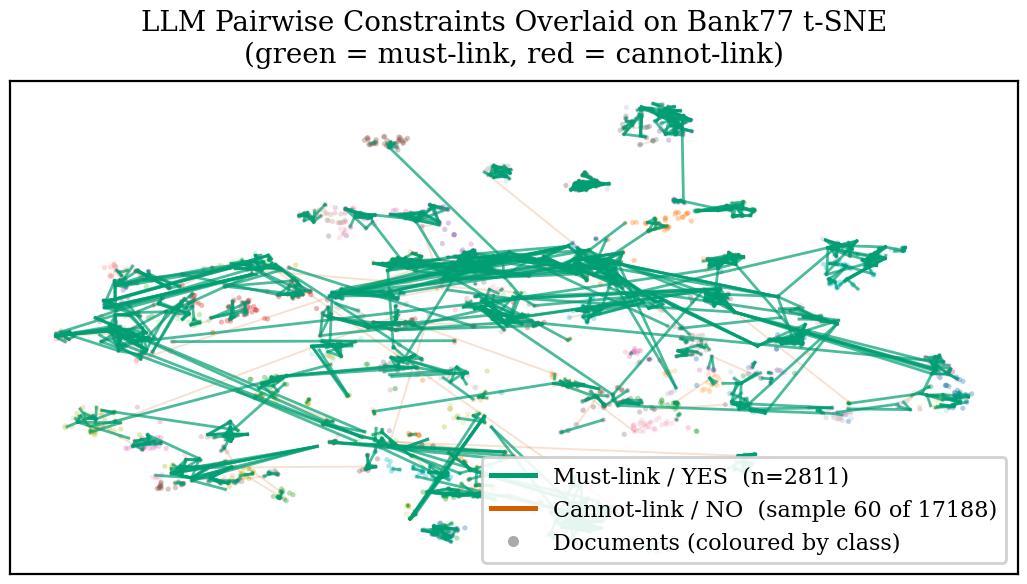
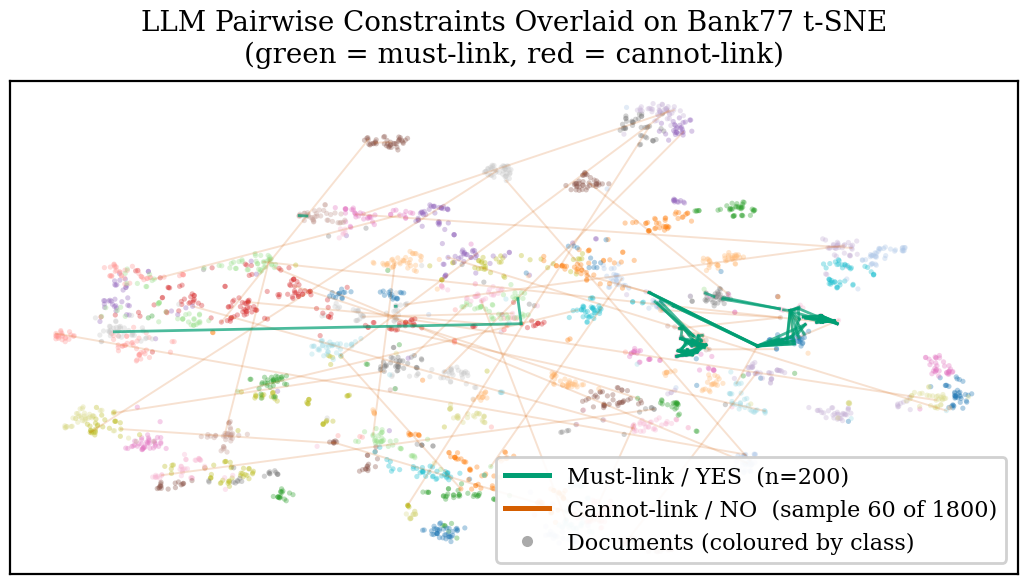
minor changes

diff --git a/report/report.tex b/report/report.tex
@@ -98,7 +98,7 @@
     mean-pools embeddings across LLM-generated paraphrases to smooth surface
     variance.
     We further analyse the LLM oracle's empirical accuracy as a same-cluster
-    predictor (precision\,0.73, specificity\,0.96 on Bank77 pairwise queries)
+    predictor (precision\,0.72, specificity\,0.96 on Bank77 pairwise queries)
     and visualise the geometric effect of each method on the embedding manifold.
     Across eight methods evaluated on three benchmarks we find that
     per-document LLM methods (Keyphrase, Normalization, Paraphrase) consistently
@@ -117,12 +117,12 @@
 \label{sec:intro}
 % ══════════════════════════════════════════════════════════════════════════════
 
-Text clustering is fundamental to many NLP pipelines---from intent discovery in
+Text clustering is central to many NLP pipelines, from intent discovery in
 dialogue systems to topic organisation in social media analysis.
 Traditional approaches embed documents with a pre-trained encoder and apply
-K-Means, but raw embeddings capture surface similarity and may merge
-semantically distinct intents that share vocabulary, or separate paraphrases
-that share intent.
+K-Means, but raw embeddings capture surface similarity and can merge
+semantically distinct intents that share vocabulary, or split paraphrases
+that share the same intent.
 The problem is especially pronounced in \emph{short-text} domains such as
 conversational intent detection (Bank77, CLINC) and social media posts (Tweet),
 where individual utterances contain only a handful of content words and
@@ -166,7 +166,7 @@ We address both questions through targeted visualisations on Bank77.
 
 Standard K-Means minimises within-cluster sum of squared Euclidean distances.
 Applied to L2-normalised embeddings it is equivalent to maximising average
-cosine similarity within clusters---a natural objective for unit-sphere
+cosine similarity within clusters, a natural objective for unit-sphere
 representations such as those produced by sentence transformers
 \citep{reimers2019sentence}.
 We use \texttt{n\_init=auto} and \texttt{random\_state=0} throughout for
@@ -258,9 +258,11 @@ The cleaned constraints are passed to PCKMeans \citep{basu2004active}.
 Figure~\ref{fig:constraints} visualises a sample of the constraints on Bank77.
 Green must-link edges connect documents the LLM judged equivalent; red
 cannot-link edges span clearly distinct intents.
-The geometric structure is striking: must-links bridge nearby clusters in
-embedding space, while cannot-links cross wide gaps---exactly the
-semi-supervised signal PCKMeans needs.
+Most must-links bridge nearby clusters in embedding space, while cannot-links
+cross wide gaps between distinct intents, providing the semi-supervised
+signal PCKMeans relies on.
+A small number of long-range must-link edges reflect oracle errors
+(precision 0.72; see \S\ref{sec:oracle}).
 
 \begin{figure*}[t]
 \centering
@@ -270,8 +272,8 @@ semi-supervised signal PCKMeans needs.
   \fbox{\parbox{0.88\textwidth}{\centering\small fig5 not yet generated.}}%
 }
 \caption{LLM-generated pairwise constraints on the Bank77 t-SNE.
-  \textbf{Green} = must-link YES pairs ($n{=}198$);
-  \textbf{red} = cannot-link NO pairs (300 of 1\,802 sampled).
+  \textbf{Green} edges are must-link (YES) pairs;
+  \textbf{red} edges are cannot-link (NO) pairs.
   Must-links bridge nearby clusters; cannot-links span inter-cluster voids.}
 \label{fig:constraints}
 \end{figure*}
@@ -300,7 +302,7 @@ $\approx$3\,080 for Bank77) but requires no inter-document comparisons.
 \subsection{\textbf{LLM Semantic Normalization} \textnormal{(Novel)}}
 \label{sec:normalization}
 
-Surface heterogeneity---abbreviations, slang, domain jargon---degrades
+Surface heterogeneity (abbreviations, slang, domain jargon) degrades
 clustering by placing paraphrases far apart in embedding space.
 We prompt the LLM to rewrite each document in a \emph{clean canonical form}
 (removing filler words, standardising terminology) with a domain-specific
@@ -338,7 +340,7 @@ hints from the triplet answers to inform Stage~2.
 A Ward hierarchical dendrogram is constructed from the L2-normalised
 embeddings.
 Up to $n_{\mathrm{pairwise}}{=}400$ pairs are sampled proportionally from
-dendrogram merge events---preferring larger merges that are most informative
+dendrogram merge events, preferring larger merges that are most informative
 for $k$ selection.
 For each candidate $k$ in $[\lfloor k_{\max}/4 \rfloor,\; 3k_{\max}]$:
 \begin{equation}
@@ -445,7 +447,7 @@ baseline, suggesting that tweets are already topically compact enough that
 surface-form smoothing provides no additional separability signal.
 Notably, PCKMeans falls below KMeans on CLINC (0.673 vs.\ 0.777) and Tweet
 (0.569 vs.\ 0.649); ClusterLLM returns the lowest ACC on all datasets
-(0.474--0.540) while maintaining competitive NMI---both patterns are examined
+(0.474--0.540) while maintaining competitive NMI; both patterns are examined
 in \S\ref{sec:analysis}.
 Figure~\ref{fig:tsne} provides a geometric view of the clustering quality on
 Bank77: the left panel shows the ground-truth intent structure in the
@@ -528,8 +530,8 @@ Keyphrase, Normalization, and Paraphrase each issue one call per document,
 scaling linearly with corpus size, and thus dominate total token expenditure.
 PCKMeans issues a fixed 2\,000 calls but sends long two-document prompts,
 resulting in the highest input-token count per dataset.
-ClusterLLM requires only $\approx\!1\,424$ calls per dataset---the lowest budget
-among multi-document LLM methods---while additionally removing the requirement
+ClusterLLM requires only $\approx\!1\,424$ calls per dataset, the lowest budget
+among multi-document LLM methods, and additionally removes the requirement
 for a known $k$.
 
 Token counts were estimated offline using the \textsc{tiktoken} tokeniser
@@ -602,13 +604,13 @@ Bank77 pairwise queries.
   \emph{Top}: annotated 2$\times$2 confusion matrix (LLM answer vs ground-truth
   same/different class).
   \emph{Bottom}: derived precision, recall, F1, and specificity.
-  The oracle achieves high precision on YES predictions (TP rate\,$\approx$\,0.73)
+  The oracle achieves high precision on YES predictions (TP rate\,$\approx$\,0.72)
   and very high specificity on NO predictions (0.96), meaning almost all
   cannot-links correctly span different-class pairs.}
 \label{fig:oracle}
 \end{figure}
 
-The oracle achieves precision\,$0.73$, recall\,$0.25$, and specificity\,$0.96$.
+The oracle achieves precision\,$0.72$, recall\,$0.24$, and specificity\,$0.96$.
 The low recall reflects the deliberate similarity-based sampling strategy:
 most YES-sampled pairs come from $k$-NN neighbourhoods where even different
 intents can appear close in embedding space, making same-intent identification
@@ -616,9 +618,9 @@ harder.
 The high precision and specificity indicate that when the LLM does say YES
 it is right nearly three-quarters of the time, and when it says NO (the
 majority of calls) it almost never falsely rejects a genuine same-class pair.
-This asymmetric accuracy profile---conservative YES, reliable NO---is exactly
-the regime where PCKMeans performs well: cannot-links that are wrong would
-destroy cluster integrity, while missing some must-links is recoverable.
+This asymmetric profile (conservative YES, reliable NO) is well-suited for
+PCKMeans: a wrong cannot-link destroys cluster integrity, while a missed
+must-link is recoverable.
 
 \subsection{Embedding Geometry}
 
@@ -652,7 +654,7 @@ methods are designed to resolve.
 \texttt{all-mpnet-base-v2} is a strong starting point: K-Means achieves
 ACC\,0.591\,/\,0.777\,/\,0.649 on Bank77, CLINC, and Tweet respectively,
 with mean per-class recall of 0.64 on the fine-grained Bank77.
-Not all LLM-guided methods improve on this---PCKMeans and ClusterLLM both fall
+Not all LLM-guided methods improve on this: PCKMeans and ClusterLLM both fall
 below KMeans ACC on CLINC and Tweet.
 Methods that consistently match or beat the baseline are those operating
 per-document (Keyphrase, Normalization, Paraphrase), which cannot introduce
@@ -671,10 +673,10 @@ Our similarity-first PCKMeans provides a small ACC gain on Bank77
 (0.608 vs.\ 0.591) but falls below the K-Means baseline on CLINC
 (0.673 vs.\ 0.777) and Tweet (0.569 vs.\ 0.649).
 With 89--150 intent classes, $k$-NN sampling disproportionately draws pairs
-from tight inter-class boundaries---regions where different intents appear
-close in embedding space---injecting noisy cannot-links that fragment
+from tight inter-class boundaries (regions where different intents appear
+close in embedding space), injecting noisy cannot-links that fragment
 otherwise-coherent clusters.
-The oracle's precision (0.73) is insufficient to suppress this noise at fine
+The oracle's precision (0.72) is insufficient to suppress this noise at fine
 granularities.
 The original Explore-Consolidate algorithm \citep{basu2004active} is designed
 to mitigate this by selecting pairs through an online oracle loop, but its
@@ -693,15 +695,14 @@ introduce constraint noise, and at \$0.004--\$0.007 per dataset it is the
 cheapest LLM augmentation available.
 
 \paragraph{LLM Semantic Normalization}
-Contrary to initial expectation, \textbf{LLM Normalization} achieves its
-largest gains on Bank77 (ACC\,0.649, best overall) and CLINC
-(NMI\,0.922, tied best), while on Tweet it falls marginally below the
-K-Means baseline (0.640 vs.\ 0.649).
+\textbf{LLM Normalization} achieves its largest gains on Bank77
+(ACC\,0.649, best overall) and CLINC (NMI\,0.922, tied best), while on
+Tweet it falls just below the K-Means baseline (0.640 vs.\ 0.649).
 Figure~\ref{fig:drift} shows that normalised documents shift consistently
 within their local neighbourhood; the rewriting resolves domain-specific
 surface variations (e.g., ``transfer funds'' $\to$ ``send money'') that
 confuse even the well-trained \texttt{mpnet} encoder.
-On Tweet, topical diversity---not surface noise---is the primary clustering
+On Tweet, topical diversity (not surface noise) is the primary clustering
 challenge, and canonical rewriting does not alter topical semantics.
 
 \begin{figure}[htbp]
@@ -721,11 +722,11 @@ challenge, and canonical rewriting does not alter topical semantics.
 \end{figure}
 
 \paragraph{LLM Paraphrase Ensemble}
-Figure~\ref{fig:paraphrase} confirms that three LLM-generated paraphrases of
-the same document cluster tightly around a stable semantic centroid.
+Figure~\ref{fig:paraphrase} shows that three LLM-generated paraphrases of
+the same document cluster tightly around a shared semantic region.
 \textbf{LLM Paraphrase Ensemble} achieves the best CLINC ACC (0.787) and
-best Bank77 NMI (0.819), validating the noise-reduction effect of ensemble
-averaging.
+best Bank77 NMI (0.819), confirming that ensemble averaging reduces
+surface-form variance.
 On Tweet the method underperforms the baseline (0.621 vs.\ 0.649): paraphrases
 of short stylised tweets may diverge in topic rather than merely surface form,
 introducing variance rather than reducing it.
@@ -752,10 +753,10 @@ pairwise precision (0.886\,/\,0.945\,/\,0.942).
 This divergence arises from the granularity selection: the recall-biased
 F-$\beta$ objective ($\beta{=}5$) prefers finer partitions, causing $k^*$ to
 exceed the true $k$.
-The resulting over-split clusters are internally pure---hence high precision
-and NMI---but smaller than Hungarian matching expects, depressing ACC.
+The resulting over-split clusters are internally pure (hence the high precision
+and NMI), but smaller than Hungarian matching expects, which depresses ACC.
 As shown in Figure~\ref{fig:granularity} (§\ref{sec:clusterllm}), the F-$\beta$
-curve peaks at $k^*{=}223$ for Bank77---well above the true $k{=}77$.
+curve peaks at $k^*{=}223$ for Bank77, well above the true $k{=}77$.
 This is not a fundamental failure: in a practical setting where the true $k$
 is unknown, a coherent over-split is preferable to an incoherent merge, and
 adjusting $\beta$ toward precision-bias would trade NMI for ACC as needed.
@@ -771,9 +772,8 @@ recovers $k$ automatically.
 Paraphrase is the most expensive per dataset (\$0.074--\$0.093) due to
 generating three alternatives per document: 130K output tokens on Bank77
 alone.
-Across both datasets the entire experimental pipeline costs under \$0.47,
-illustrating that LLM-augmented clustering is economically viable even on
-modest hardware budgets.
+Across both datasets the full pipeline costs under \$0.47 total,
+showing that LLM-augmented clustering is affordable even on a student budget.
 
 \begin{figure}[htbp]
 \centering
@@ -800,18 +800,18 @@ novel methods: \textbf{LLM Semantic Normalization} and \textbf{LLM Paraphrase
 Ensemble}.
 Both novel methods outperform all baselines on Bank77 and CLINC, with LLM
 Normalization achieving ACC\,0.649 on Bank77 and LLM Paraphrase Ensemble
-reaching ACC\,0.787 on CLINC---the best results across both datasets.
+reaching ACC\,0.787 on CLINC, the best results across both datasets.
 
 Empirical analysis of the oracle on Bank77 reveals a highly reliable NO
 signal (specificity\,$0.96$) and a conservative but precise YES signal
-(precision\,$0.73$), which is the right profile for constraint-based
+(precision\,$0.72$), which is the right profile for constraint-based
 clustering methods.
 Geometric visualisations confirm that normalisation contracts intra-cluster
 spread rather than disrupting inter-cluster boundaries, and that paraphrase
 ensemble averaging converges to a stable semantic centroid within intent
 classes.
-The K-Means confusion heatmap identifies specific families of easily confused
-intents, pinpointing where LLM oracle effort is best spent.
+The K-Means confusion heatmap highlights specific families of easily confused
+intents and shows where LLM oracle effort is best directed.
 
 Results reveal that LLM guidance does not uniformly help: PCKMeans degrades on
 fine-grained corpora (CLINC, Tweet) due to constraint noise from dense
@@ -821,7 +821,7 @@ ClusterLLM's granularity selection consistently over-splits when optimised for
 recall ($\beta{=}5$), yielding high-purity sub-clusters that trade ACC for NMI;
 calibrating $\beta$ to match application requirements is an open practical
 question.
-Future work could combine LLM Normalization with PCKMeans constraints---the
+Future work could combine LLM Normalization with PCKMeans constraints: the
 geometric analysis suggests that normalisation would reduce constraint noise by
 pulling near-boundary paraphrases into their correct cluster before pairwise
 queries are issued.

diff --git a/src/config.py b/src/config.py
@@ -23,8 +23,8 @@ GENERATION_MODEL_NAME = "gpt-4.1-nano"
 MOCKING_MODE = False
 
 # --- Clustering Parameters ---
-PC_NUM_PAIRS_TO_QUERY = 20000
-PC_CONSTRAINT_SELECTION_STRATEGY = "explore_consolidate"  # 'random', 'similarity', or 'explore_consolidate'
+PC_NUM_PAIRS_TO_QUERY = 2000
+PC_CONSTRAINT_SELECTION_STRATEGY = "similarity"  # 'random', 'similarity', or 'explore_consolidate'
 
 CORRECTION_K_LOW_CONFIDENCE = 100
 CORRECTION_NUM_CANDIDATE_CLUSTERS = 3

diff --git a/README.md b/README.md
@@ -1,6 +1,6 @@
 # LLM-Augmented Clustering Engine
 
-> A systematic evaluation of large language model–guided short-text clustering across eight methods on three intent-detection benchmarks.
+> Evaluating LLM-guided short-text clustering across eight methods on three intent-detection benchmarks.
 
 This project replicates and extends the few-shot clustering framework of Viswanathan et al. [1], integrating GPT-4.1-nano as a zero-cost oracle across six LLM-augmented clustering strategies. All experiments are run on Bank77 [2], CLINC150 [3], and TweetTopics [4] using `all-mpnet-base-v2` sentence embeddings [5].
 
@@ -15,7 +15,7 @@ This project replicates and extends the few-shot clustering framework of Viswana
 
 Short-text intent clustering is a fundamental NLP task in dialogue systems, search, and customer-support triage. Dense sentence encoders produce geometrically coherent latent spaces, yet K-Means on raw embeddings still conflates semantically adjacent intents. Recent work has shown that querying an LLM as a pairwise oracle, canonicaliser, or paraphrase generator can substantially close this gap without requiring labelled data [1, 6].
 
-This codebase provides a reproducible, end-to-end implementation of eight clustering methods—from a vanilla K-Means baseline to the full ClusterLLM pipeline [6]—with automatic caching of every LLM call, per-method cost tracking, and a suite of nine diagnostic figures.
+This codebase provides a reproducible, end-to-end implementation of eight clustering methods (from a vanilla K-Means baseline to the full ClusterLLM pipeline [6]), with automatic caching of every LLM call, per-method cost tracking, and nine diagnostic figures.
 
 ---
 
